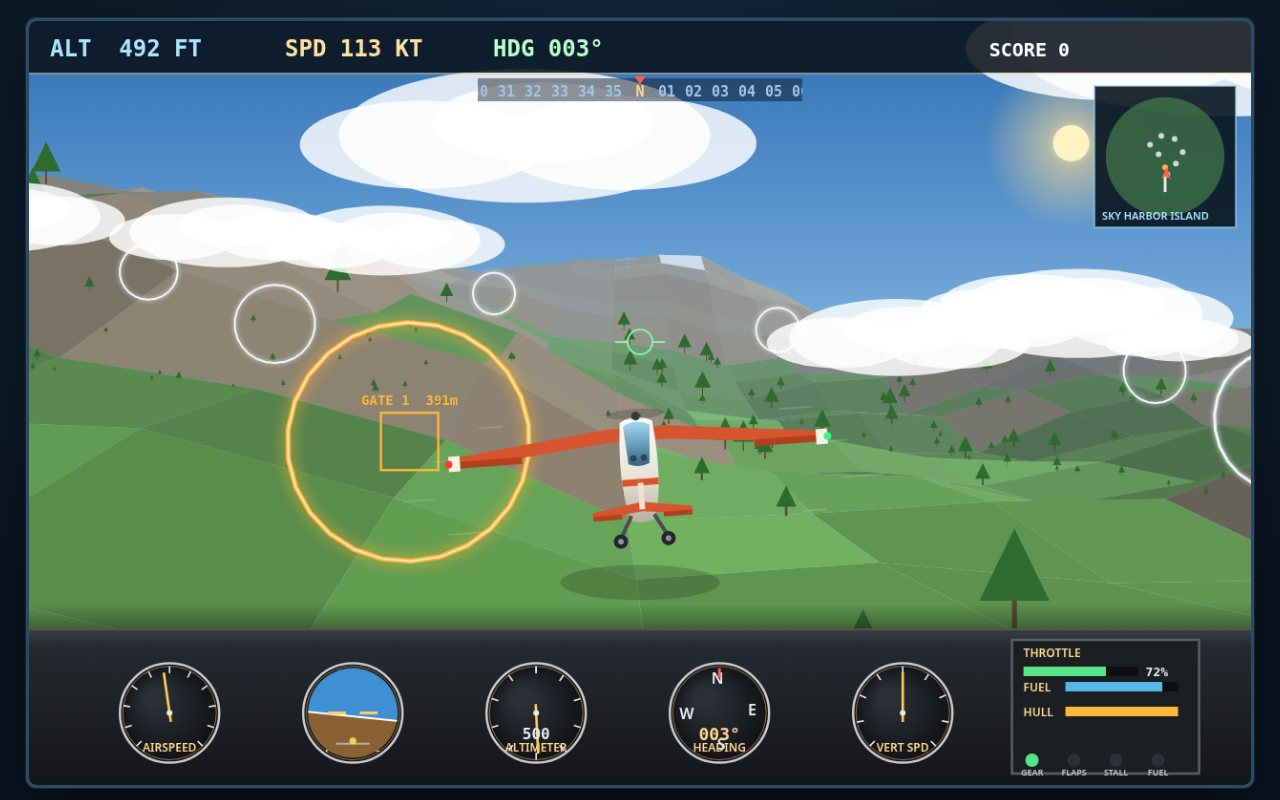
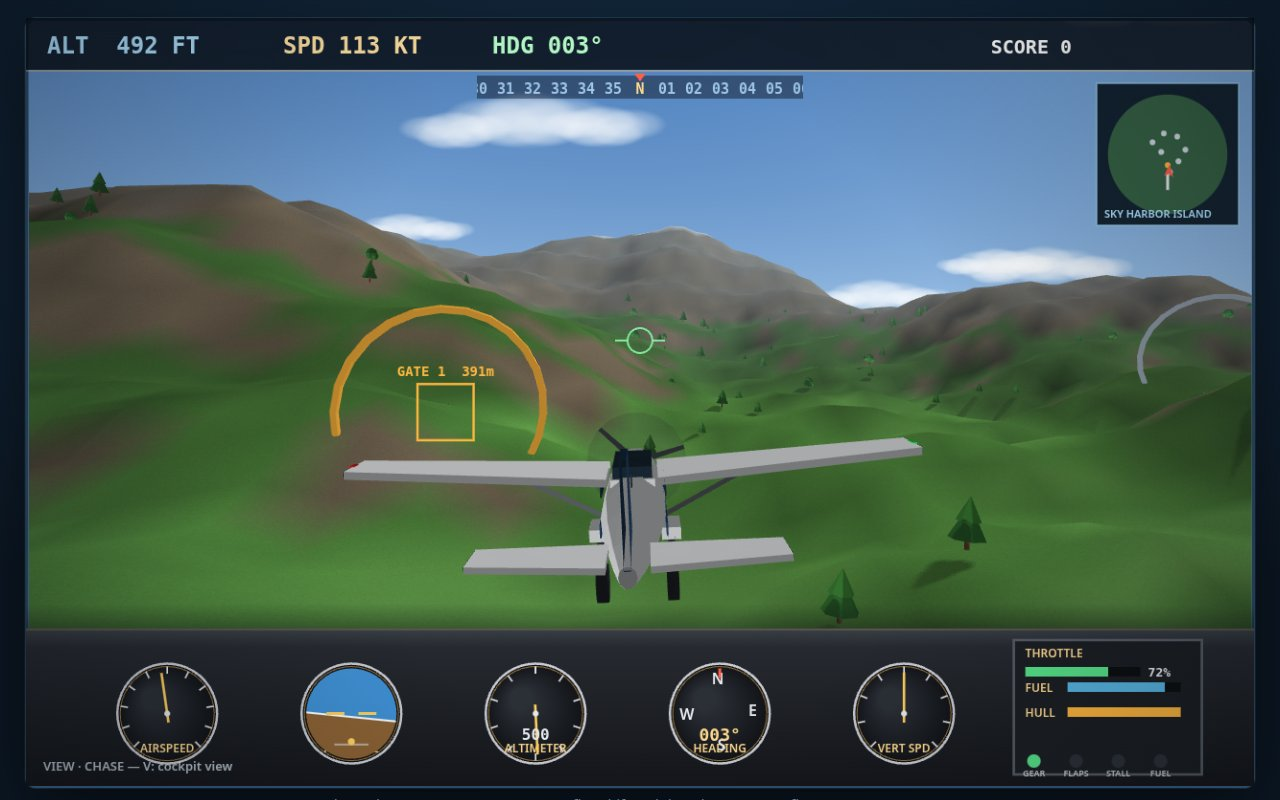
v4 submission build: WebGL world, cockpit view, fresh screenshots (cockpit shot replaces rings)

diff --git a/README.md b/README.md
@@ -9,10 +9,11 @@ An original, fully offline flight game built for the make.fun bounty
 (https://make.fun/bounty/best-flight-game-20261126-0057).
 
 You fly a high-wing tourer over Sky Harbor Island — a heightfield island with
-a harbour town, a lighthouse, pine forest and snow-tipped peaks — from a chase
-cockpit with a full set of lit steam gauges. There is a marked runway with
-edge lights and PAPI, and an eight-gate ring course threaded through the
-valleys.
+a harbour town, a lighthouse, pine forest and snow-tipped peaks — rendered as
+a real-time WebGL 3D world with sun shadow mapping, and flown from either a
+chase camera or a first-person cockpit view, with a full set of lit steam
+gauges. There is a marked runway with edge lights and PAPI, and an
+eight-gate ring course threaded through the valleys.
 
 ## The three sorties
 
@@ -31,7 +32,7 @@ altimeter, heading, vertical speed, throttle, fuel, hull — is live.
 
 - **Arrows** or **mouse drag** — stick (pitch and roll)
 - **Shift / Ctrl** (or `+` / `-`) — throttle up / down
-- **G** — landing gear · **F** — flaps · **P** — pause · **R** — restart
+- **G** — landing gear · **F** — flaps · **V** — chase / cockpit view · **P** — pause · **R** — restart
 - **1 / 2 / 3** — choose a sortie on the title screen
 
 ## Layout
@@ -44,8 +45,10 @@ altimeter, heading, vertical speed, throttle, fuel, hull — is live.
   http://localhost:8080, or any static file server.
   - `game/src/terrain.js` — the island heightfield, runway, ring course, scenery
   - `game/src/physics.js` — the flight model: lift, stall, fuel, damage
-  - `game/src/render3d.js` — sky, terrain, runway, rings and scenery painter
-  - `game/src/aircraft.js` — the chase-view aeroplane
+  - `game/src/glworld.js` — the WebGL world: terrain mesh with real-time sun
+    shadows, faceted town and trees, the 3D aeroplane, chase and cockpit cameras
+  - `game/src/render3d.js` — the fallback 2D painter (sky, terrain, rings)
+  - `game/src/aircraft.js` — the chase-view aeroplane for the fallback painter
   - `game/src/cockpit.js` — the lit instrument panel
   - `game/src/hud.js` — HUD tapes, target marker, minimap, banners
   - `game/src/missions.js` — the three sorties and scoring
@@ -54,7 +57,7 @@ altimeter, heading, vertical speed, throttle, fuel, hull — is live.
   - `game/src/main.js` — boot, game loop and screen states
   - `game/src/shots.js` — posed `?shot=` scenes used for the screenshots
 - `screenshots/` — real renders of the game in headless Chrome
-  (`?shot=cover|approach|rings|sunset`), never edited or composited.
+  (`?shot=cover|approach|cockpit|sunset`), never edited or composited.
 
 Everything — idea, art, names and sound — is original to this entry.
 Licensed under the MIT License (see `LICENSE`).
